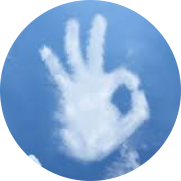
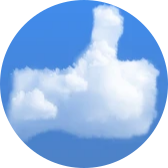
aok

diff --git a/src/components/DreamCard.tsx b/src/components/DreamCard.tsx
@@ -6,6 +6,8 @@ import Button from 'react-bootstrap/Button';
 import Row from 'react-bootstrap/Row';
 import Col from 'react-bootstrap/Col';
 import thumbsup from '../assets/thumbs-up.png';
+import aOk from '../assets/OK.png';
+
 type DreamCardProps = {
     dream: DreamType
     currentUser: UserType|null
@@ -46,7 +48,7 @@ export default function DreamCard({ dream, currentUser }: DreamCardProps) {
         <p className="liketext">{ dream.likes } Likes</p>
         </div>
         <div className="addInterpretationBtnContainer">
-            <img src="./thumbs-up.png" alt="add interpretation" className="addInterpretationBtn" />
+            <img src={aOk} alt="add interpretation" className="addInterpretationBtn" />
             <p className="addInterpretationText">Interpretations</p>
         </div>
         </div>
